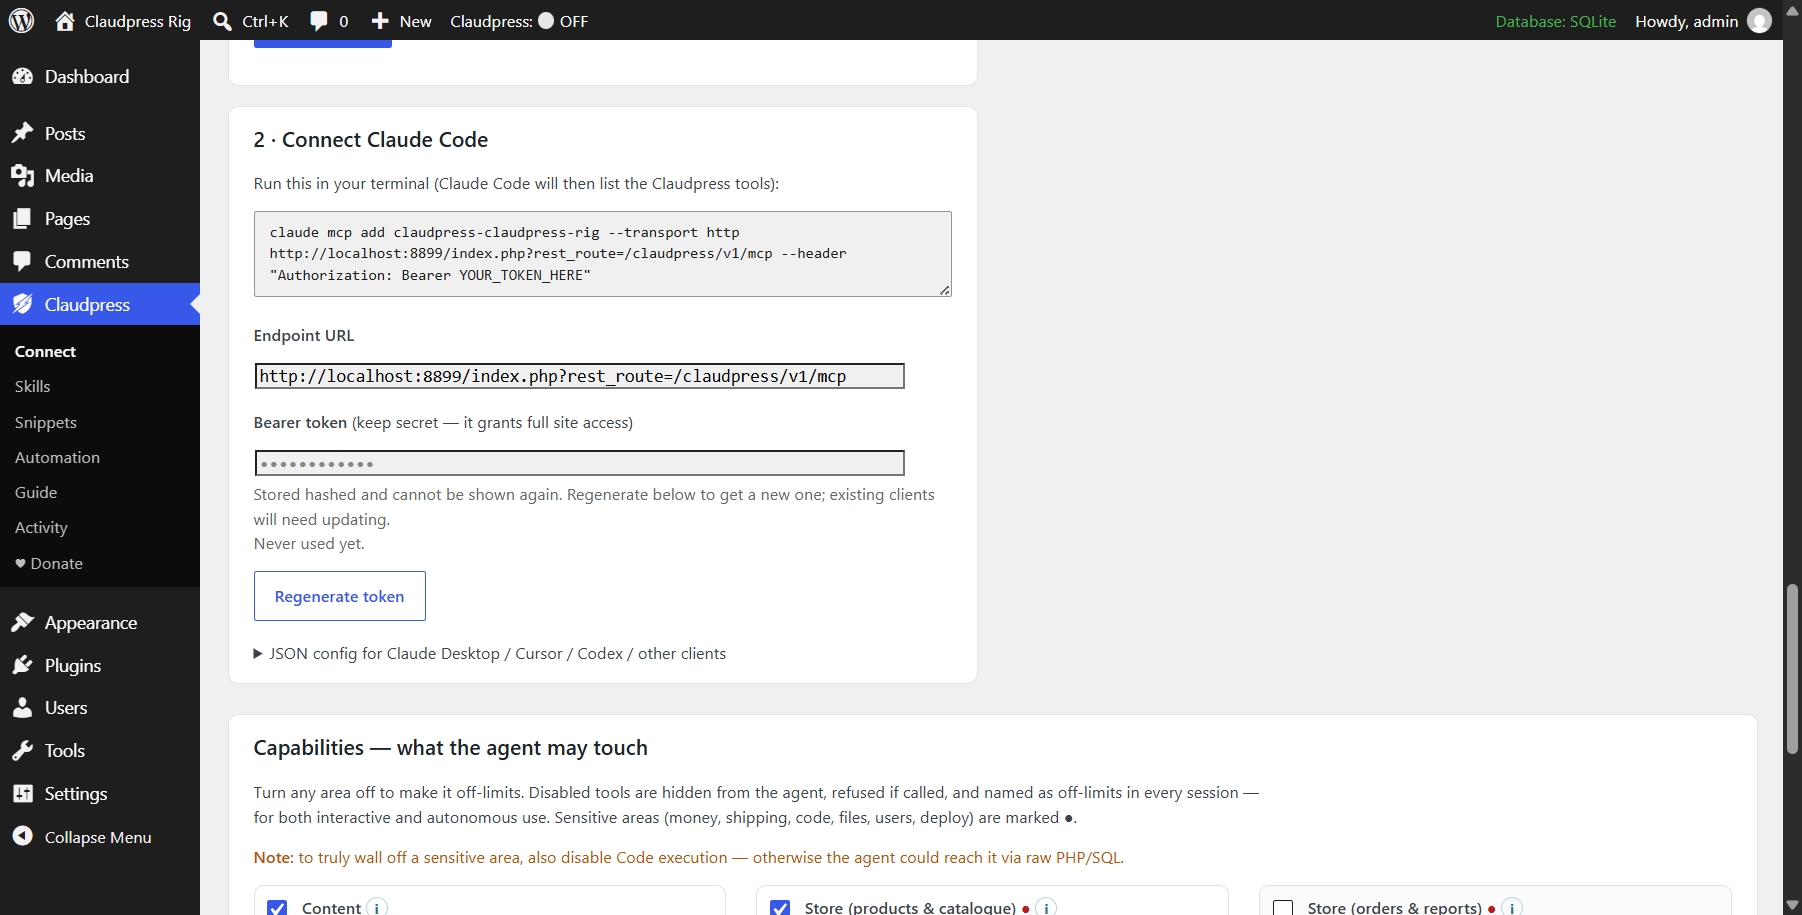
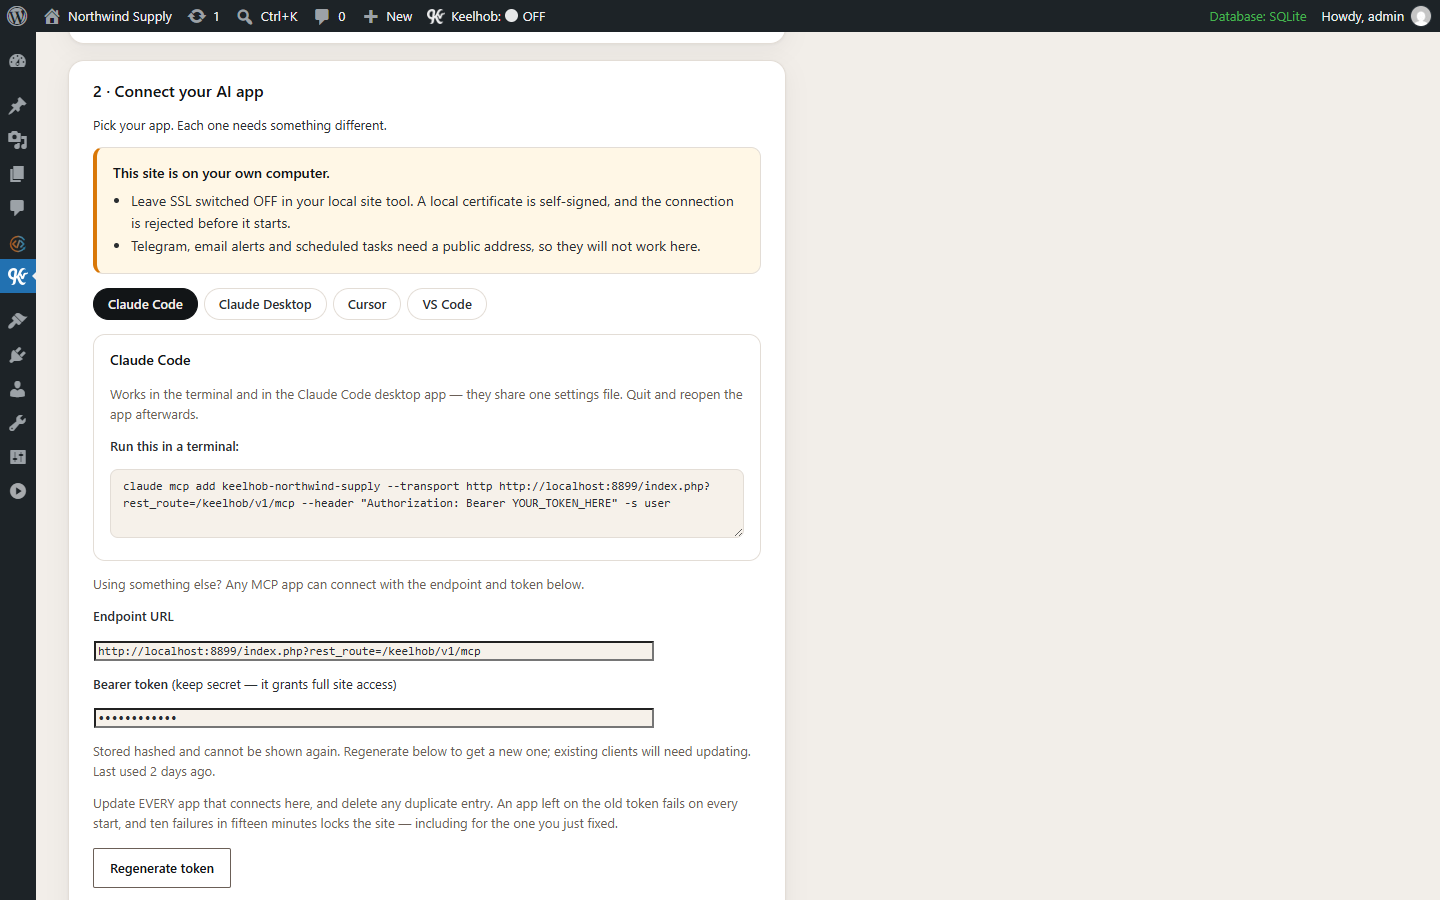
Reshoot the three admin screenshots on the 2.0.0 design, and generate them
The images in docs/img were of the old unstyled admin, so the README showed a
product that no longer exists. These are taken at 1440x900 against the kept rig
running 2.0.0.

tests/rig/ui/make-docs-shots.mjs is the script that takes them, so the next
redesign does not need this worked out again. It collapses the WordPress
sidebar once (the rig carries another plugin's menu and an update badge,
neither of which belongs in product documentation), seeds five snippet rows for
the Studio shot, and removes every seeded row and restores the rig's site title
in a `finally`.

Three things the shoot corrected in SHOT-LIST.md, each of which was wrong in a
way that would have wasted somebody's time:

- **The Connect page does not show the bearer token.** The list said it does
  and told you to regenerate it straight after recording. 2.0.0 stores the
  token hashed, renders the field as dots, and puts the literal
  YOUR_TOKEN_HERE in the copy command. There is nothing to redact.
- **There is no expandable row in the snippets list.** The list asked for one
  showing the purpose/impact panel. That panel is on the Edit screen. The
  control it describes does not exist.
- **Eight groups ship off, not ten.** The list predates `abilities` and
  `sitecare_fix`. It also now says what "defaults, untouched" means: the
  option must be ABSENT, because saving the form once writes an explicit value
  for every group and the screen looks identical afterwards.
[…]

Changed region(s): [[0.0, 0.0, 1.0, 1.0], [0.7188, 0.9644, 0.8438, 1.0]]

diff --git a/docs/img/SHOT-LIST.md b/docs/img/SHOT-LIST.md
@@ -11,6 +11,18 @@ change.
 | `03-capabilities.png` | The Capabilities panel |
 | `04-built-site.png` | The front end of a site the agent built |
 
+**01, 02 and 03 are generated**, not taken by hand:
+
+```
+bash tests/rig/sync-plugin.sh /c/wp-rig/wordpress
+node tests/rig/ui/make-docs-shots.mjs
+```
+
+It shoots all three at 1440x900 against the kept rig, collapses the sidebar so another plugin's
+menu stays out of frame, seeds the snippet rows, and deletes everything it seeded in a `finally`.
+`04-built-site.png` and the video cannot be generated — they need a real built site and a person
+recording.
+
 ## Before you start — every shot
 
 Set up a throwaway site for this. Not your own site, not a client's.
@@ -24,9 +36,11 @@ Set up a throwaway site for this. Not your own site, not a client's.
 
 ### Must NOT be visible, in any shot or the video
 
-- **Any real token or key.** The Connect page shows a live bearer token; regenerate it immediately
-  after recording, and prefer a token you throw away. Same for Anthropic/OpenAI/Google keys,
-  Telegram bot tokens and the Telegram webhook secret.
+- **Any real token or key.** As of 2.0.0 the Connect page does NOT show the bearer token: it is
+  stored hashed, the field renders as dots and the copy command carries the literal
+  `YOUR_TOKEN_HERE`. So there is nothing to redact in `01-connect.png`. This still applies to
+  Anthropic/OpenAI/Google keys, Telegram bot tokens and the Telegram webhook secret, which the
+  Automation screen does show.
 - **Real customer data** — names, email addresses, order addresses, phone numbers. Use WooCommerce
   sample data or invented customers.
 - **Your personal email address**, in the admin bar, the profile menu, the "Howdy, …" greeting or a
@@ -45,13 +59,12 @@ and a screenshot is forever once it is in git history.
 
 **Screen:** Keelhob → Connect.
 
-**State:** a token generated, so the `claude mcp add …` command is fully filled in with a real URL
-and a real bearer token — then **regenerate that token straight after taking the shot**. Nothing
-expanded below the fold; the command block should be the visual centre.
+**State:** the command block as the visual centre. No token needs generating: the command shows
+`YOUR_TOKEN_HERE` whether or not one exists.
 
 **Must be visible:** the site URL in the command, the `--transport http` flag, the full endpoint
-path `/wp-json/keelhob/v1/mcp`, the copy button, and enough of the surrounding page that it
-reads as a WordPress admin screen.
+path, the copy button, and enough of the surrounding page that it reads as a WordPress admin
+screen.
 
 **Nice to have:** the "Other clients" JSON block partly visible below it, so people can see there
 is more than one way in.
@@ -62,13 +75,16 @@ is more than one way in.
 
 **Screen:** Keelhob → Snippets.
 
-**State:** at least five snippets the agent actually installed during a real build — not seeded
-dummies. A mix of types (PHP, CSS, a page template) and at least one **inactive** row, so the
-status column is doing visible work. One row expanded to show its purpose/impact panel: what the
-snippet exists for, what it changes, where and when it runs.
+**State:** at least five snippets, a mix of types, and at least one **inactive** row so the status
+column is doing visible work. Snippets from a real build are better than seeded ones; the shot in
+the repo today is seeded, and says so below.
 
-**Must be visible:** the Name / Description / Type / Status columns, per-row activate-deactivate
-controls, and the expanded panel.
+**Must be visible:** the Name / Description / Type / Status columns and the per-row
+activate-deactivate controls.
+
+**There is no expanded row.** An earlier version of this list asked for one showing the
+purpose/impact panel. That panel is on the Edit screen, not inline in the list, so the shot cannot
+show it. Do not go looking for a disclosure control that is not there.
 
 **Ideally:** one row carrying a real `last_error` from a snippet that crashed and auto-deactivated
 itself. That single row proves the crash guard is real and is worth more than a tidy list.
@@ -79,9 +95,13 @@ itself. That single row proves the crash guard is real and is worth more than a 
 
 **Screen:** the Capabilities panel.
 
-**State:** **defaults, untouched.** The whole point of this shot is showing the eight groups that
-ship off — `store_orders`, `payments`, `shipping`, `tax`, `users`, `updates`, `comms`, `deploy` —
-so do not switch anything on first.
+**State:** **defaults, untouched.** The whole point of this shot is showing the ten groups that
+ship off — `abilities`, `sitecare_fix`, `store_orders`, `payments`, `shipping`, `tax`, `users`,
+`updates`, `comms`, `deploy` — so do not switch anything on first.
+
+"Untouched" means the `keelhob_capabilities` option is **absent**, not that it holds the default
+values. Saving the form once writes an explicit value for every group, and the screen then looks
+identical while no longer being the default.
 
 **Must be visible:** enough rows that both on and off toggles are in frame, at least four of the
 eight off groups with their labels, and one of the hover/info descriptions open if the layout
